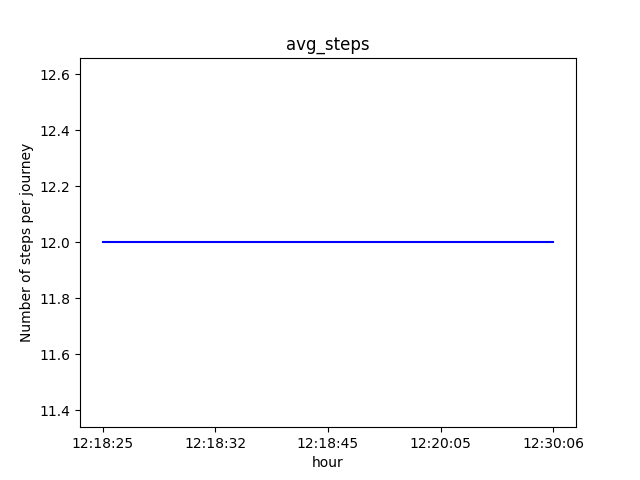
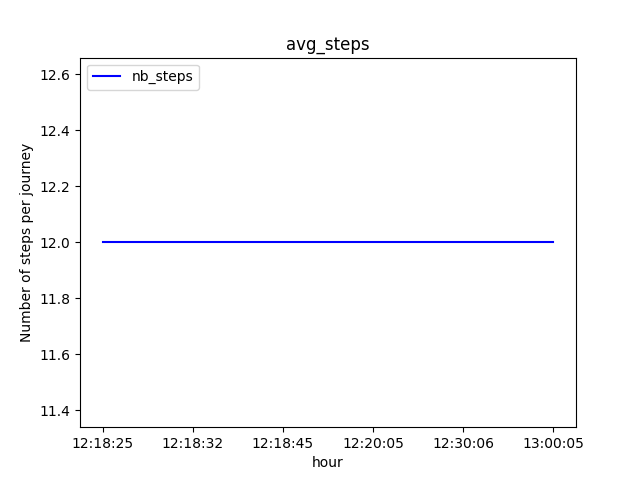
:sparkles: all graphs ok

diff --git a/TrainsScraper.py b/TrainsScraper.py
@@ -158,12 +158,19 @@ class TrainsScraper:
 
       print("> Process is finished!")
       
-   def plot_points(self, x, xlabel, y, ylabel, color, type, filepath, title):
-      plt.plot(x, y, color=color)
+   def plot_points(self, x, xlabel, y, ylabel, color, label, type, filepath, title, yScaleLog):
+      print(f"=== {title} ===")
+      for i in range(len(y)):
+         print(f"{i}: item: {y[i]} -- color: {color[i]}")
+         plt.plot(x, y[i], color=color[i], label=label[i])
       plt.title(title)
       plt.xlabel(xlabel)
       plt.ylabel(ylabel)
+      plt.legend(loc="upper left")
+      if yScaleLog:
+         plt.yscale('log')
       plt.savefig(f'{filepath}/{title}.png')
+      plt.clf()
 
    def get_from_influx(self):
       with open('/var/www/html/jsons/trains-data.json', 'r') as json_file:
@@ -180,12 +187,14 @@ class TrainsScraper:
       self.plot_points(
          x=dates_formatted,
          xlabel="hour",
-         y=avg_steps,
+         y=[avg_steps],
          ylabel="Number of steps per journey",
-         color="blue",
+         color=["blue"],
+         label=['nb_steps'],
          type=None,
          filepath="/home/pi/Documents/TrainsTracker/figures",
-         title="avg_steps"
+         title="avg_steps",
+         yScaleLog=False
       )
 
       # SPEEDS PER CATEGORY
@@ -196,17 +205,52 @@ class TrainsScraper:
       speed_tgv = trains['speedTgv']
       speed_lyria = trains['speedLyria']
       speed_ouigo = trains['speedOuigo']
-
+      self.plot_points(
+         x=dates_formatted,
+         xlabel="hour",
+         y=[speed_intercites, speed_transilien, speed_ter, speed_inoui, speed_tgv, speed_lyria, speed_ouigo],
+         ylabel="Velocity (km/h)",
+         color=["blue", "red", "green", "black", "yellow", "cyan", "purple"],
+         label=['intercites', 'transilien', 'ter', 'inoui', 'tgv', 'lyria', 'ouigo'],
+         type=None,
+         filepath="/home/pi/Documents/TrainsTracker/figures",
+         title="speeds_per_categories",
+         yScaleLog=False
+      )
 
       # SPEEDS
       avg_speeds = trains['avgSpeed']
       min_speed = trains['minSpeed']
       max_speed = trains['maxSpeed']
+      self.plot_points(
+         x=dates_formatted,
+         xlabel="hour",
+         y=[avg_speeds, min_speed, max_speed],
+         ylabel="Velocity (km/h)",
+         color=["blue", "red", "green"],
+         label=['average', 'min', 'max'],
+         type=None,
+         filepath="/home/pi/Documents/TrainsTracker/figures",
+         title="extremal_speeds",
+         yScaleLog=False
+      )
 
       # DELAYED AND DELETED
       total = trains['total']
       delayed = trains['ret']
       deleted = trains['sup']
+      self.plot_points(
+         x=dates_formatted,
+         xlabel="hour",
+         y=[total, delayed, deleted],
+         ylabel="Number of trains",
+         color=["blue", "red", "green"],
+         label=['total', 'delayed', 'deleted'],
+         type=None,
+         filepath="/home/pi/Documents/TrainsTracker/figures",
+         title="general",
+         yScaleLog=True
+      )
 
       # TRAINS CATEGORIES REPARTITION
       tgv = trains['tgv']
@@ -216,6 +260,18 @@ class TrainsScraper:
       ouigo = trains['ouigo']
       transilien = trains['transilien']
       lyria = trains['lyria']
+      self.plot_points(
+         x=dates_formatted,
+         xlabel="hour",
+         y=[tgv, intercites, inoui, ter, ouigo, transilien, lyria],
+         ylabel="Velocity (km/h)",
+         color=["blue", "red", "green", "black", "yellow", "cyan", "purple"],
+         label=['tgv', 'intercites', 'inoui', 'ter', 'ouigo', 'transilien', 'lyria'],
+         type=None,
+         filepath="/home/pi/Documents/TrainsTracker/figures",
+         title="trains_categories_repartition",
+         yScaleLog=True
+      )
 
       # save pdf file and clean json file
       # self.init_json()
